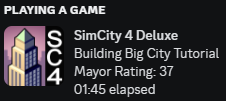
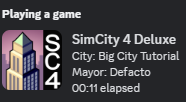
Update the description and images in README.md

diff --git a/README.md b/README.md
@@ -2,11 +2,11 @@
 
 A DLL plugin for SimCity 4 that implements Discord rich presence support.
 
-In the city view, the plugin displays the city name, mayor rating and elapsed time.
+In the city view, the plugin displays the city name, various city statistics and the elapsed time.
 
 ![City view](images/CityView.png)
 
-In the region view, the plugin displays the region name.
+In the region view, the plugin displays the region name and various region statistics.
 
 ![Region view](images/RegionView.png)
 
